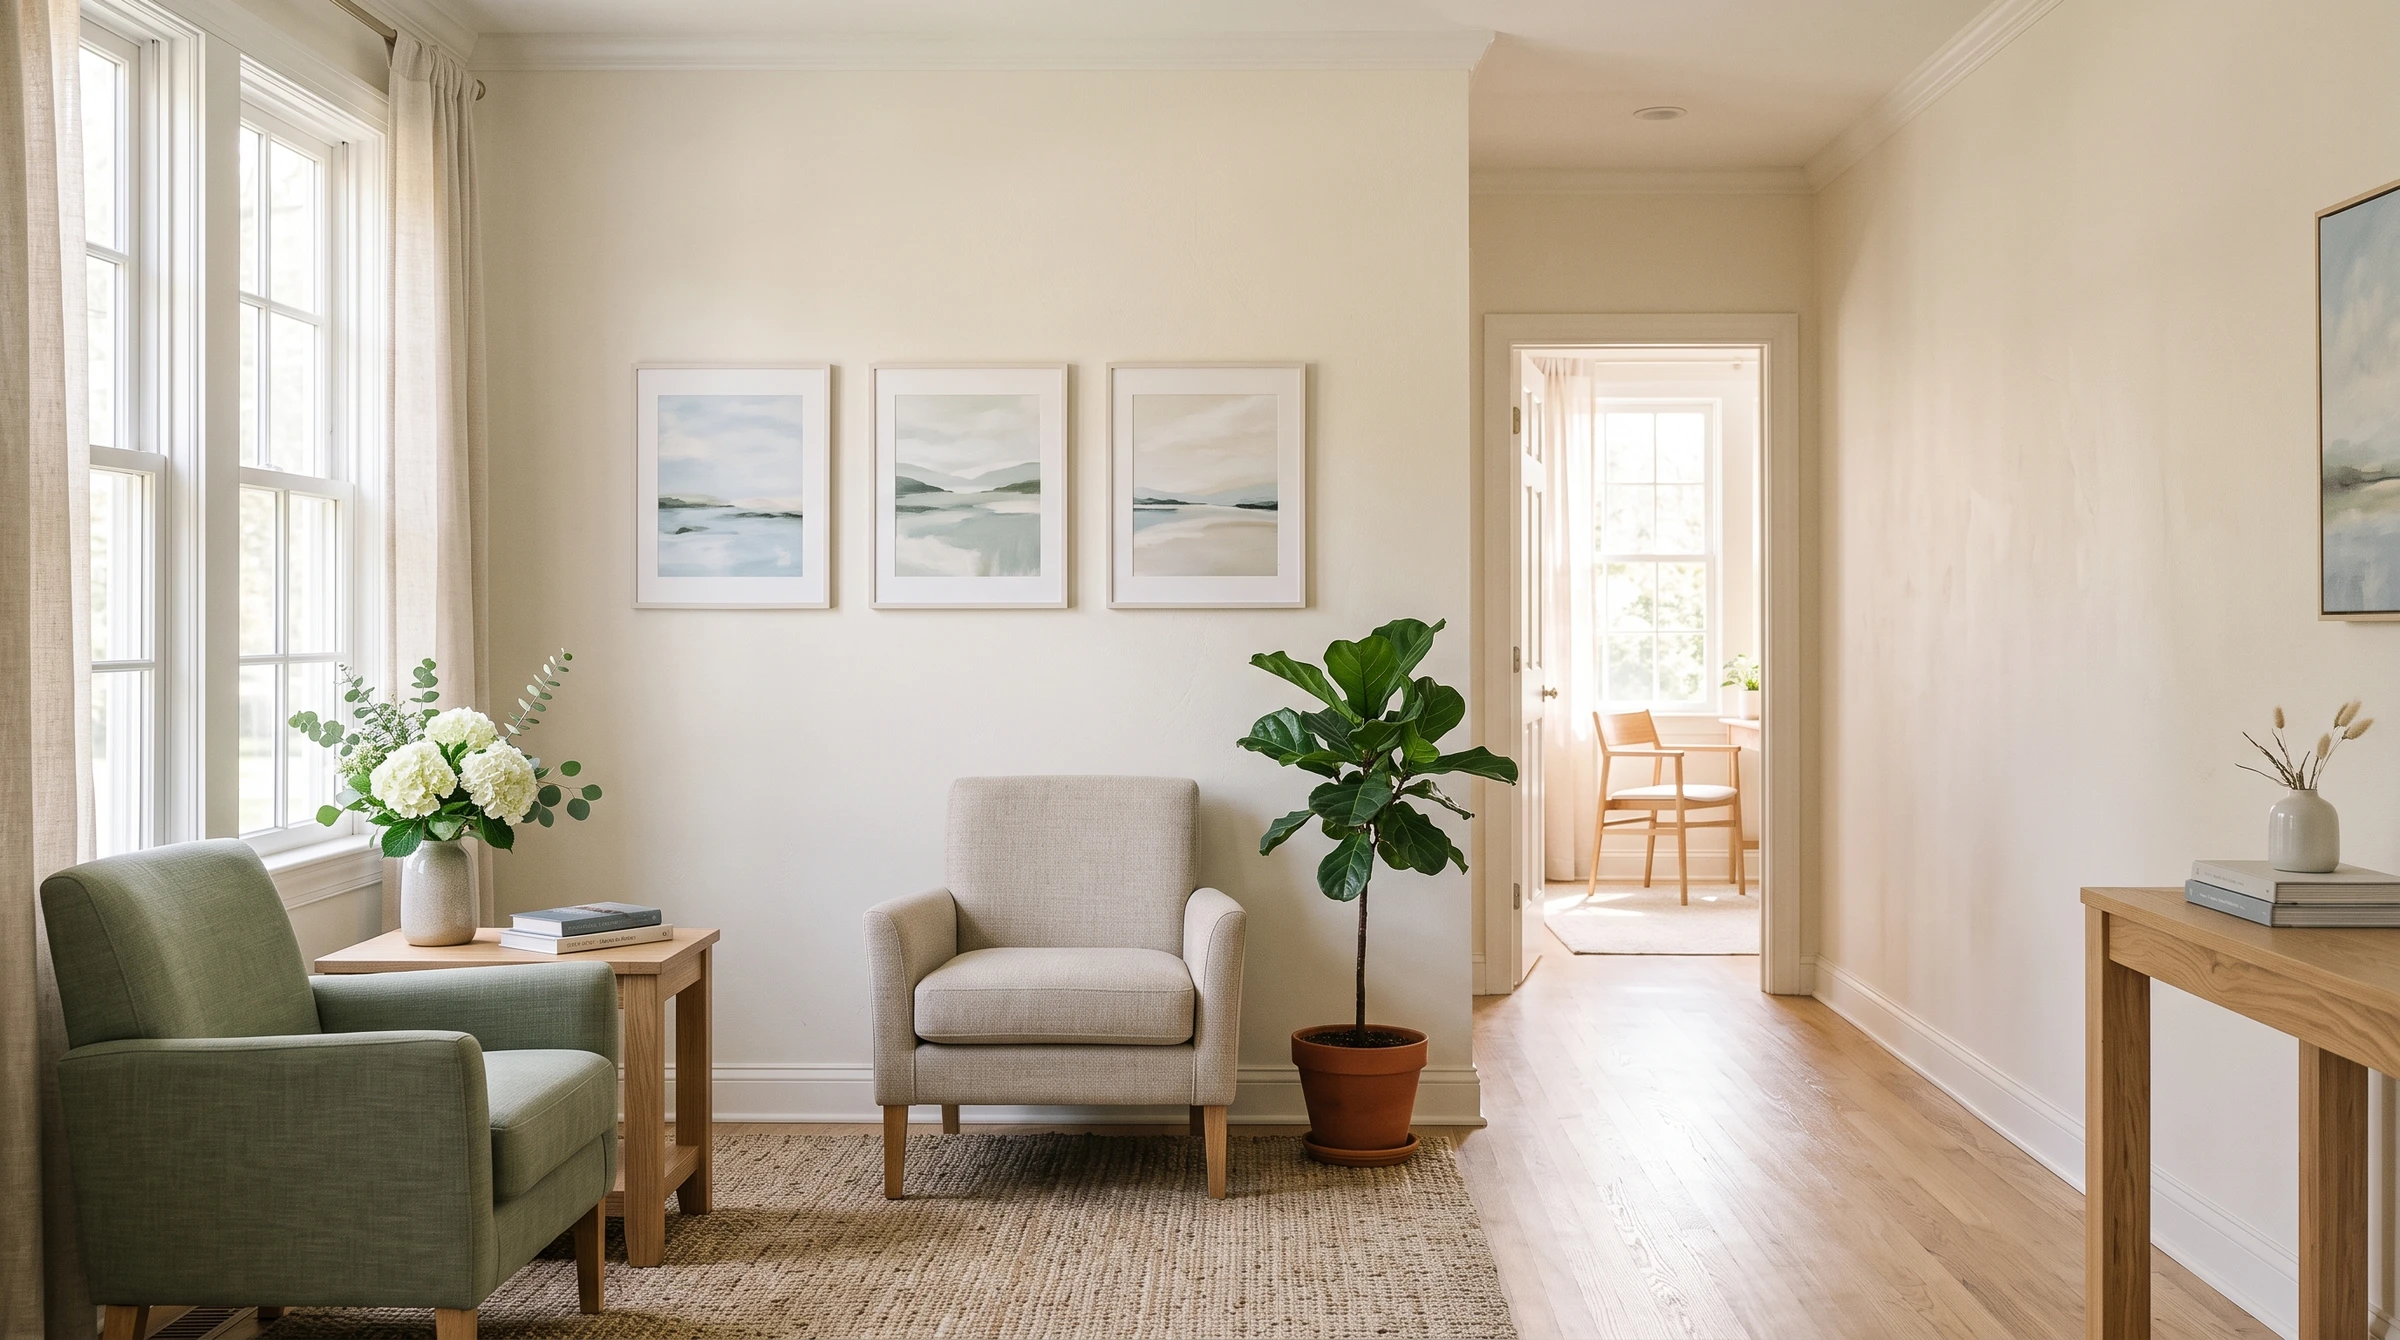
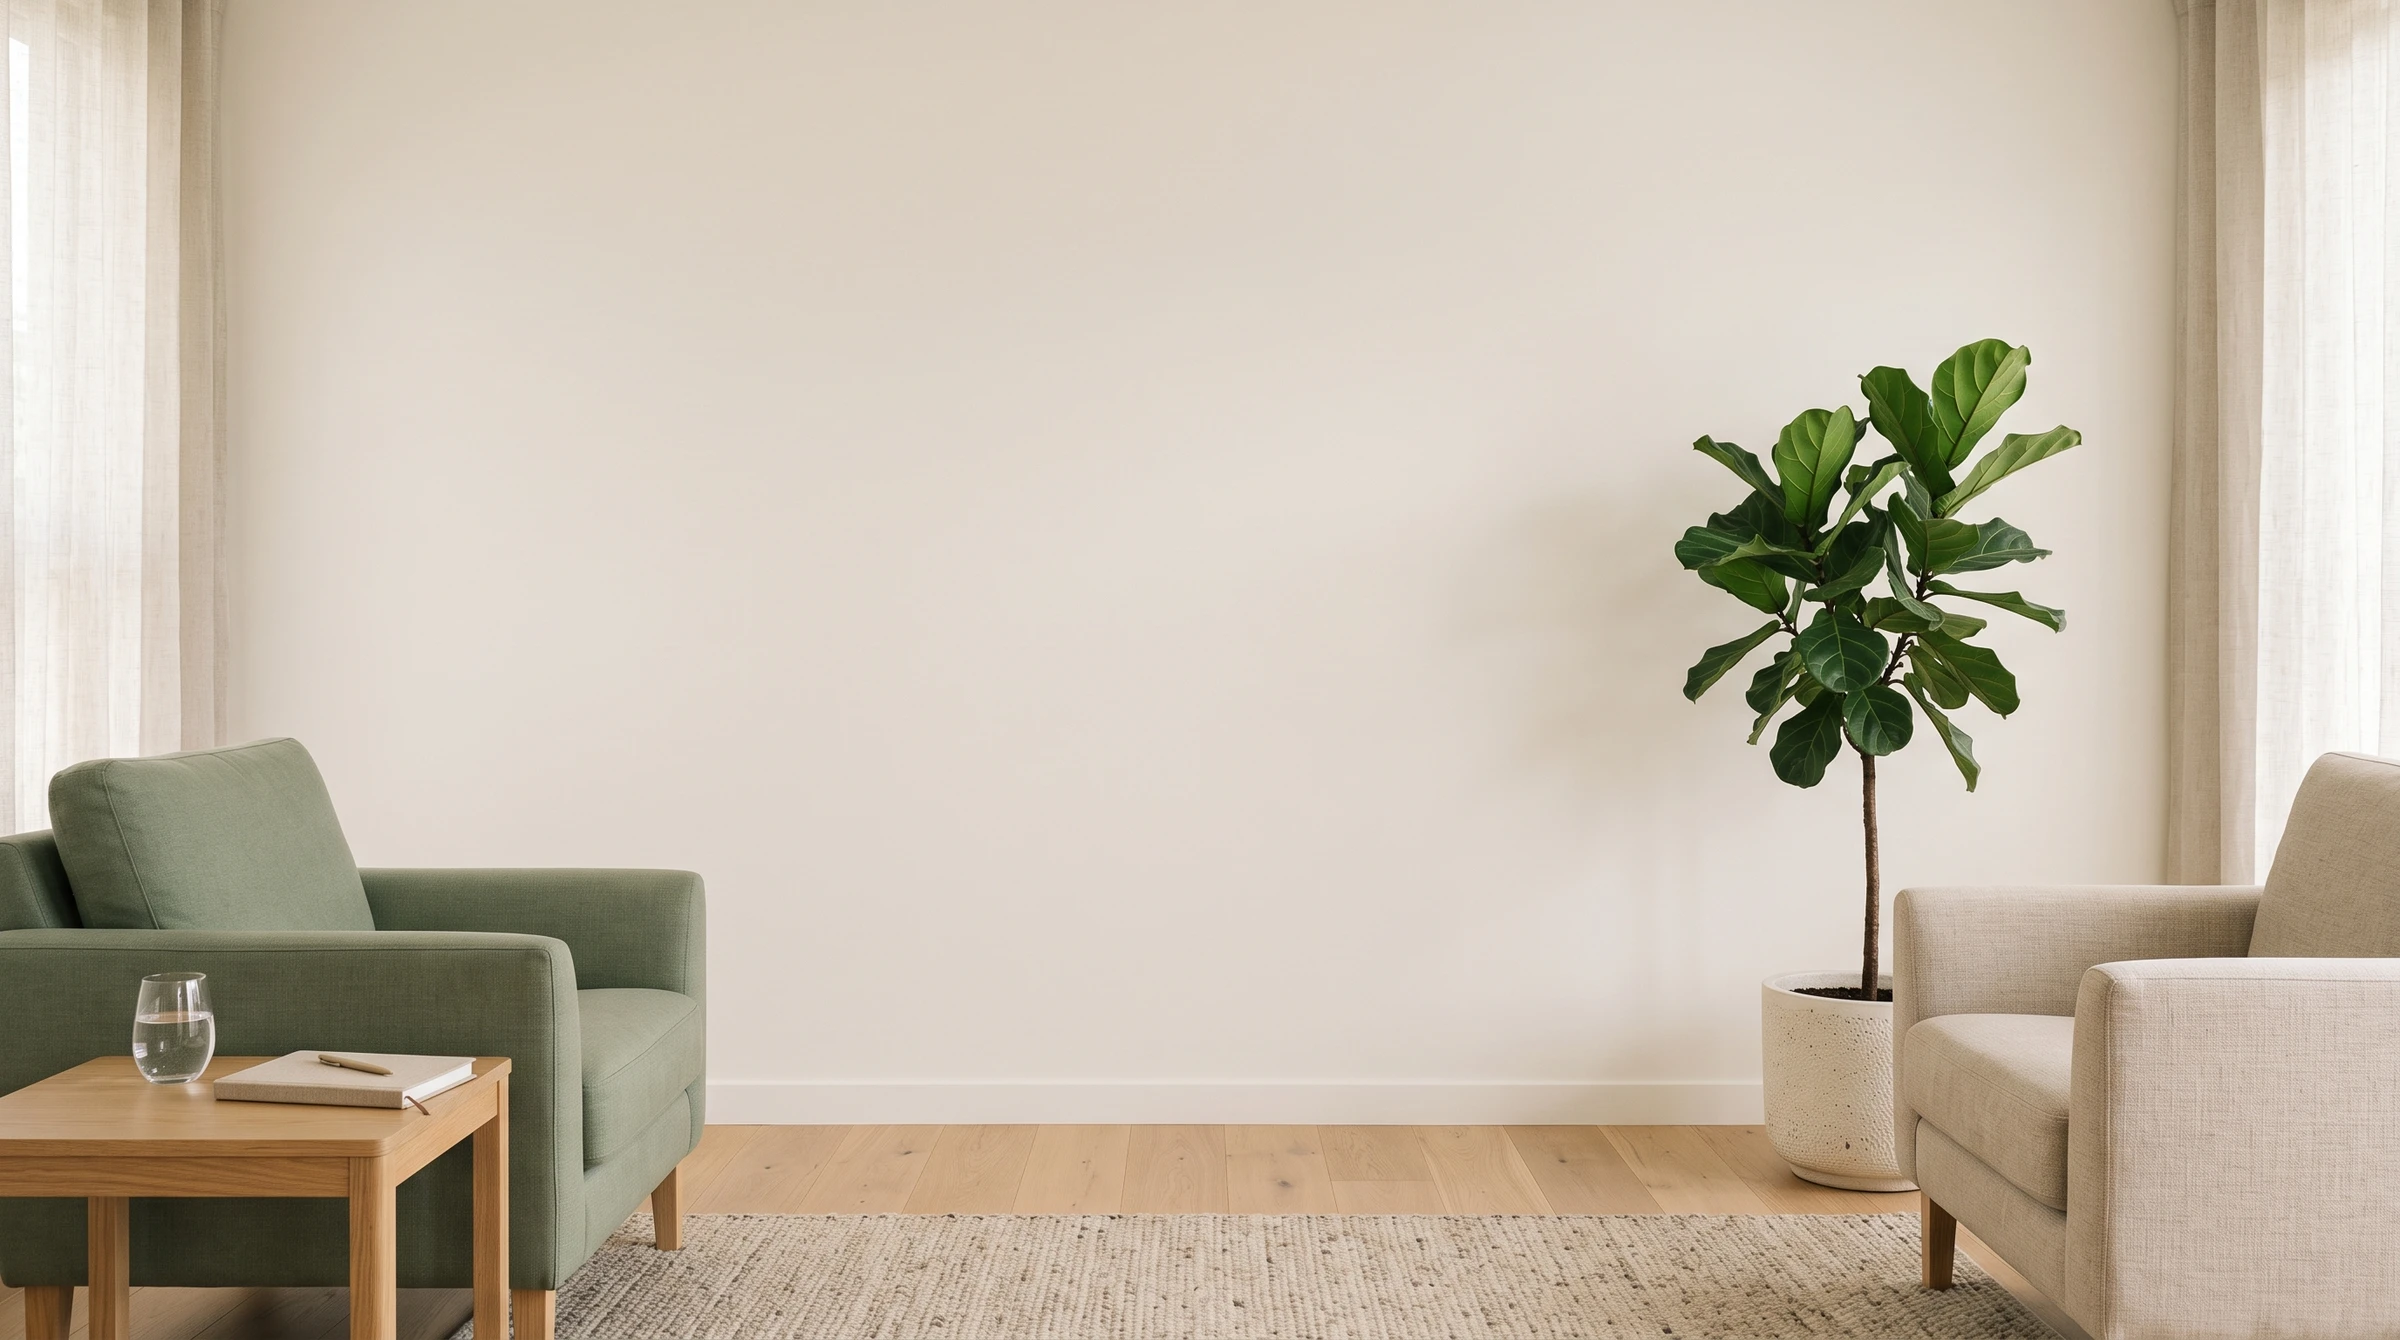
feat(providers): new hero frames, with the centre of each left clear
Replaces both provider hero masters. Converted to webp at 2400px wide, encoder
quality 90, at the same paths: funmilayo 263 KB (was 286), anastasia 307 KB
(was 456). The source JPEGs are not committed.

Both new frames are shot for this job — the furniture is at the edges and the
middle of each is an unbroken wall, which is where the centred headline sits.
Alts updated to the rooms actually in shot.

THE EDGE PROBLEM IS SOLVED IN THE ASSET, which is where it had to be solved.
Measuring the strongest vertical luminance gradient in each frame and mapping it
through the cover geometry:

  funmilayo   strongest edge 0.222 at source x 7.3%
                @1440 box x 105   @1024 box x 75   @390 box x -181   all CLEAR
  anastasia   strongest edge 0.220 at source x 93.8%
                @1440 box x 1351  @1024 box x 961  @390 box x 581    all CLEAR

against headline spans of 421-1019, 247-777 and 16-374. The old frames put a
0.381 edge at source x 50.2% and a 0.315 edge at x 63% — both directly under the
headline at every width.

REPORTED RATHER THAN GLOSSED: weaker edges do still cross the headline —
funmilayo 0.111 at x 70.2% and 0.110 at x 30%, anastasia 0.092 at x 29% at 1024
only. They are a third the magnitude of what they replace and are soft tonal
turns rather than architecture, but they are not zero.

AA re-checked on the new frames, glyph core pixels, four widths:

          anastasia h1 / intro     funmilayo h1 / intro
  1440       4.06 / 6.86              4.85 / 6.70
[…]

diff --git a/app/providers/[slug]/page.tsx b/app/providers/[slug]/page.tsx
@@ -58,15 +58,28 @@ export async function generateMetadata({ params }: { params: Promise<{ slug: str
  * NEITHER FRAME CONTAINS A PERSON, so the alts describe the rooms and claim
  * nothing about whose they are — the practice's in-person locations are still
  * unconfirmed under CLAUDE.md's care-modality rule.
+ *
+ * NO objectPosition HERE, AND X WOULD BE INERT IF THERE WERE. At the desktop
+ * widths this hero box is WIDER than the image's 1.79:1 aspect — 1440x540 is
+ * 2.67, 1024x540 is 1.90 — so object-cover scales by WIDTH, the full image
+ * width is always shown, and the horizontal overflow is 0px. With nothing to
+ * slide, the X component of objectPosition changes nothing at all there; it
+ * only bites below lg, where the box is taller than the image and cover scales
+ * by height instead (491px of overflow at 390).
+ *
+ * That is why a framing problem in the middle of one of these photographs
+ * cannot be cropped out in CSS at 1440 or 1024, and has to be fixed in the
+ * asset. It cost a pass to discover; it is written down so it does not cost
+ * another.
  */
 const HERO_IMAGE: Record<string, { src: string; alt: string }> = {
   'anastasia-ofoegbu': {
     src: '/images/providers/provider-anastasia-hero-2400.webp',
-    alt: 'An empty sitting room with two armchairs, a side table holding flowers and books, three framed landscape prints, and a doorway through to a dining table beyond.',
+    alt: 'An empty sitting room with a green armchair and a cream armchair at either side, a side table holding a glass of water and an open notebook, and a potted fig tree against a plain wall.',
   },
   'funmilayo-whitaker': {
     src: '/images/providers/provider-funmilayo-hero-2400.webp',
-    alt: 'An empty sitting room with two blue armchairs either side of a small round table, beside shelves of books and a trailing plant, with a curtained window behind.',
+    alt: 'An empty sitting room with a blue armchair at either side, a side table of white flowers on the left and a trailing plant on a cabinet on the right, against a plain wall between curtained windows.',
   },
 };
 
